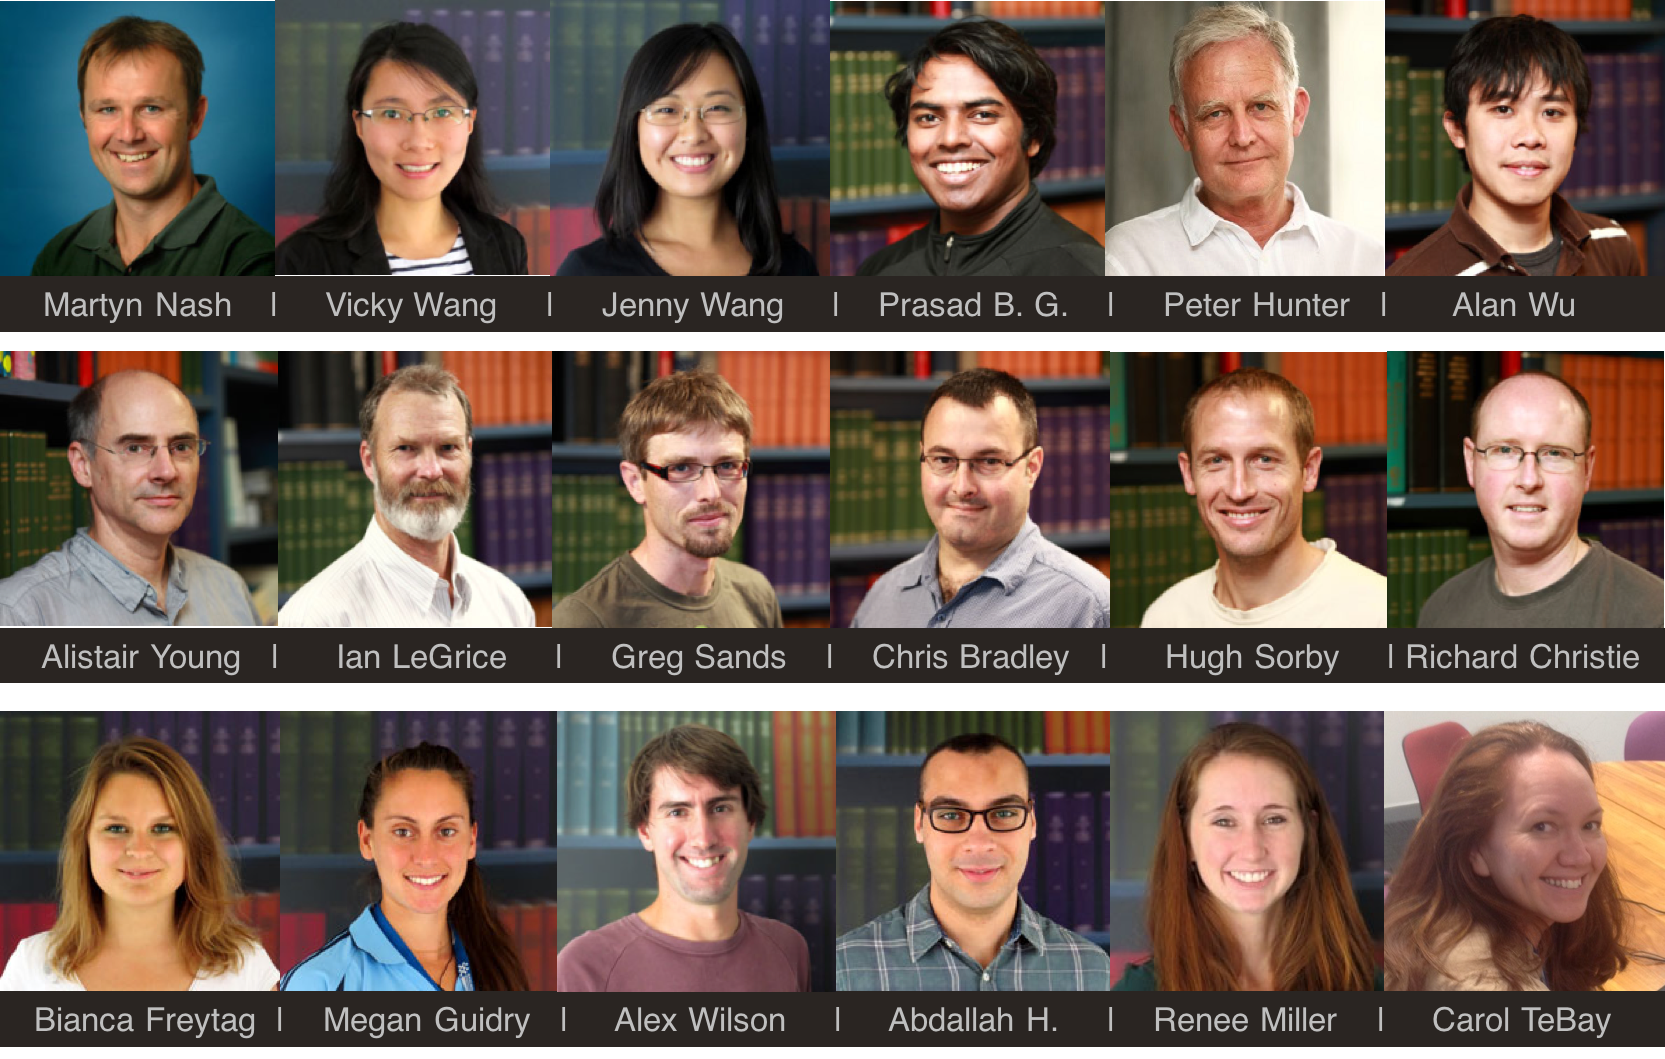
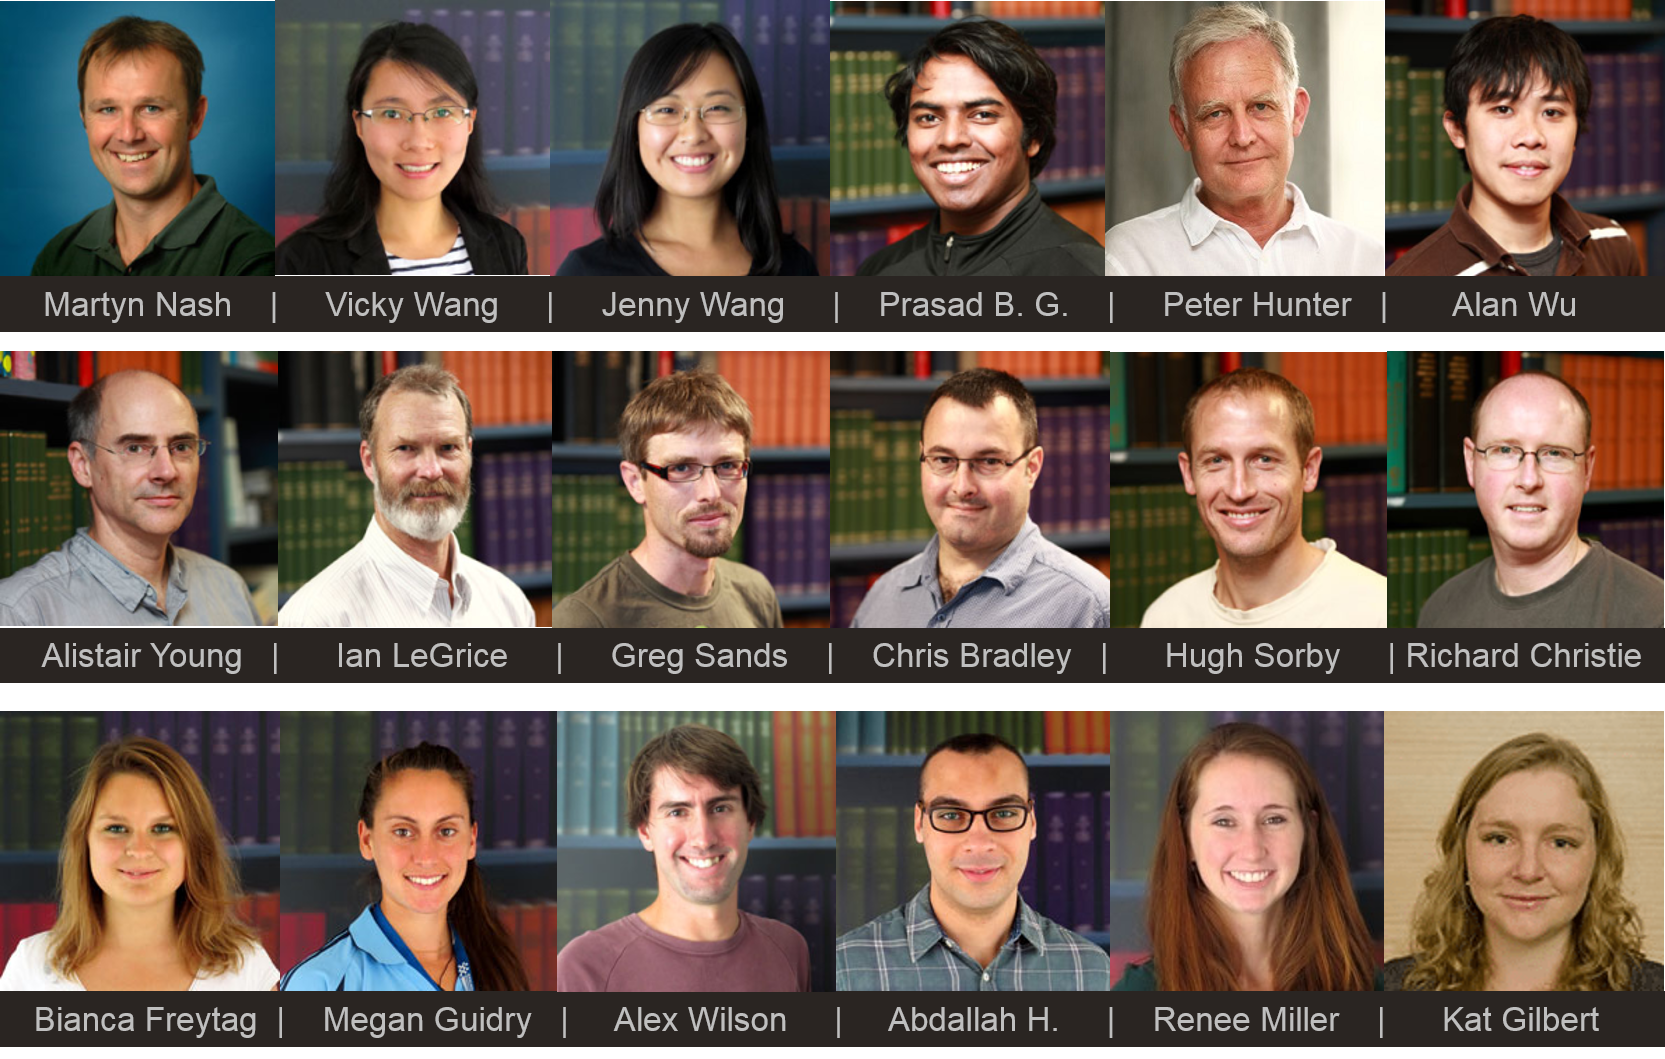
Update after feedback from Joe
* Make video exit full screen and auto close after it has played to the end.
* Swapped order and default button in about us page to show video right away
* Changed heading for about us page
* Changed headshots to include Kat.
* Wording changes for minor attack
* Add healthy heart movie to default page
* Add blocked arteries movie to all attack pages.

diff --git a/index.html b/index.html
@@ -43,8 +43,30 @@
 	</head>
 	<body onload="setTimer()" style="height:100%;font-family='Helvetica'" oncontextmenu="return false" unselectable="on" onselectstart="return false;">
 	<div id="main_page" class="heartpage">
+		<div id="heart_video" class="video_player closed">
+			<video id="heart" controls controlsList="nodownload" style = "position:absolute;height:90%;width:100%" class="closed" onended="ExitFullScreen('heart')">
+				<source src="videos/1_healthy_heart.mp4">
+				Your browser does not support the video tag.
+			</video>
+			<div class="close_video" onclick="closeVideo('heart')" style="display:inline-block">
+				<img src="images/heart_v7/Annie_Jones.png" style="height:90%;top:5%;left:5%;position:absolute" alt="annie_jones">
+				<img src="images/heart_v7/close_video_icon.png" style="height:90%;top:5%;width:55%;left:22.5%;position:absolute"alt="click_to_close">
+				<img src="images/heart_v7/Liz_Broadbent.png" style="height:90%;top:5%;right:5%;position:absolute" alt="liz_broadbent">
+			</div>
+		</div>
+		<div id="blockage_video" class="video_player closed">
+			<video id="blockage" controls controlsList="nodownload" style = "position:absolute;height:90%;width:100%" class="closed" onended="ExitFullScreen('blockage')">
+				<source src="videos/2_blocked_arteries.mp4">
+				Your browser does not support the video tag.
+			</video>
+			<div class="close_video" onclick="closeVideo('blockage')" style="display:inline-block">
+				<img src="images/heart_v7/Annie_Jones.png" style="height:90%;top:5%;left:5%;position:absolute" alt="annie_jones">
+				<img src="images/heart_v7/close_video_icon.png" style="height:90%;top:5%;width:55%;left:22.5%;position:absolute"alt="click_to_close">
+				<img src="images/heart_v7/Liz_Broadbent.png" style="height:90%;top:5%;right:5%;position:absolute" alt="liz_broadbent">
+			</div>
+		</div>
 		<div id="exercise_video" class="video_player closed">
-			<video id="exercise" controls controlsList="nodownload" style = "position:absolute;height:90%;width:100%" class="closed">
+			<video id="exercise" controls controlsList="nodownload" style = "position:absolute;height:90%;width:100%" class="closed" onended="ExitFullScreen('exercise')">
 				<source src="videos/5_exercise_v2.mp4">
 				Your browser does not support the video tag.
 			</video>
@@ -55,7 +77,7 @@
 			</div>
 		</div>
 		<div id="diet_video" class="video_player closed">
-			<video id="diet" controls controlsList="nodownload" style = "position:absolute;height:90%;width:100%" class="closed">
+			<video id="diet" controls controlsList="nodownload" style = "position:absolute;height:90%;width:100%" class="closed" onended="ExitFullScreen('diet')">
 				<source src="videos/6_diet_v2.mp4">
 				Your browser does not support the video tag.
 			</video>
@@ -66,7 +88,7 @@
 			</div>
 		</div>
 		<div id="smoking_video" class="video_player closed">
-			<video id="smoking" controls controlsList="nodownload" style = "position:absolute;height:90%;width:100%" class="closed">
+			<video id="smoking" controls controlsList="nodownload" style = "position:absolute;height:90%;width:100%" class="closed" onended="ExitFullScreen('smoking')">
 				<source src="videos/7_smoking_v2.mp4">
 				Your browser does not support the video tag.
 			</video>
@@ -77,7 +99,7 @@
 			</div>
 		</div>
 		<div id="aspirin_video" class="video_player closed">
-			<video id="aspirin" controls controlsList="nodownload" style = "position:absolute;height:90%;width:100%" class="closed">
+			<video id="aspirin" controls controlsList="nodownload" style = "position:absolute;height:90%;width:100%" class="closed" onended="ExitFullScreen('aspirin')">
 				<source src="videos/4_aspirin.mp4">
 				Your browser does not support the video tag.
 			</video>
@@ -88,7 +110,7 @@
 			</div>
 		</div>
 		<div id="statin_video" class="video_player closed">
-			<video id="statin" controls controlsList="nodownload" style = "position:absolute;height:90%;width:100%" class="closed">
+			<video id="statin" controls controlsList="nodownload" style = "position:absolute;height:90%;width:100%" class="closed" onended="ExitFullScreen('statin')">
 				<source src="videos/3_Statins.mp4">
 				Your browser does not support the video tag.
 			</video>
@@ -243,8 +265,17 @@
 					<p class="big">This is an interactive model of the heart's two main pumping chambers: the ventricles. Spin, zoom, drag, and open the heart using the gestures shown at the bottom. Vary the heart rate using the slider on the right. </p>
 					<img src="images/heart_v7/schematic.png" alt="schematic" style="position:relative;left:5%;width:90%;">
 					<hr class="style">
-					<p class="big">The heart pumps blood around the body to provide all the organ systems with oxygen and nutrients. </p>
+					<p class="big" style="width:80%;display:inline-block">The heart pumps blood around the body to provide all the organ systems with oxygen and nutrients. </p>
+					<div id="heart_icon" class = "medicationLifestyle open">
+						<img src="images/heart_v7/heart_video.png" alt="home"  onclick="showVideo('heart')"
+						style="top:10%;height:93%;left:10%;position:relative">
+					</div>
+					<div id="heart_selected_icon" class = "medicationLifestyle" style="display:none;">
+						<img src="images/heart_v7/heart_video_selected.png" alt="home"  onclick="closeVideo('heart')"
+						style="top:10%;height:93%;left:10%;position:relative">
+					</div>
 					<p class="big">The ECG trace (top right) represents the electrical waves in the heart that stimulate contraction and generate pressure (middle right) to pump blood.  </p>
+
 					<hr class="style">
 					<p class="big">Click through the tabs below to learn about various heart diseases.</p>
 				</div>
@@ -258,8 +289,15 @@
 				</div>
 				<div class="leftAnswer open">
 					<p class="big">The heart pumps blood to itself through blood vessels called the coronary arteries (not shown in the 3D model). A heart attack occurs when blood flow is obstructed by a narrowing of these arteries.</p>
-					<img src="images/heart_v7/coronary_heart.png" alt="moderate" style="position:relative;left:24%;width:52%">
-
+					<img src="images/heart_v7/coronary_heart.png" alt="moderate" style="position:relative;left:20%;width:60%;display:inline-block">
+					<div id="blockage_icon" class = "medicationLifestyle" style="display:inline-block">
+						<img src="images/heart_v7/blockage_icon.png" alt="home"  onclick="showVideo('blockage')"
+						style="top:10%;height:100%;left:95%;position:relative">
+					</div>
+					<div id="blockage_selected_icon" class = "medicationLifestyle" style="display:none;">
+						<img src="images/heart_v7/blockage_selected_icon.png" alt="home"  onclick="closeVideo('blockage')"
+						style="top:10%;height:100%;left:95%;position:relative">
+					</div>
 					<p class="big">Good lifestyle choices help to keep the coronary arteries healthy and prevent heart attacks. Learn more about how lifestyle factors can affect the heart in the following movie clips.</p>
 					<div id="exercise_icon" class = "medicationLifestyle open">
 						<img src="images/heart_v7/exercise.png" alt="home"  onclick="showVideo('exercise')" style="top:0%;height:93%;position:relative">
@@ -385,9 +423,17 @@
 				<div class="leftAnswer open">
 					<p class="big">In a heart attack, fatty deposits build up inside the coronary arteries. This obstructs blood flow to the heart muscle and causes tissue damage. </p>
 					<img src="images/heart_v7/coronary_block_moderate_no_vid.png" alt="moderate" style="position:relative;left:20%;width:60%">
+					<div id="blockage_yp_icon" class = "medicationLifestyle" style="display:none">
+						<img src="images/heart_v7/blockage_icon.png" alt="home"  onclick="showVideo('blockage_yp')"
+						style="top:10%;height:100%;left:95%;position:relative">
+					</div>
+					<div id="blockage_yp_selected_icon" class = "medicationLifestyle" style="display:inline_block">
+						<img src="images/heart_v7/blockage_selected_icon.png" alt="home"  onclick="closeVideo('blockage_yp')"
+						style="top:10%;height:100%;left:95%;position:relative">
+					</div>
 					<p class="big">Less pressure is generated by hearts with damaged tissue (yellow trace) compared to healthy hearts (green trace). </p>
 					<hr class="style">
-					<p class="big">Medications such as statins and aspirin help to reduce coronary blockages. They must be combined with healthy lifestyle choices to help prevent further heart attacks.</p>
+					<p class="big">Medications such as statins and aspirin help to clear and prevent coronary blockages. They must be combined with healthy lifestyle choices to help prevent further heart attacks.</p>
 					<div id="statin_icon" class = "medicationLifestyle open">
 						<img src="images/heart_v7/statin.png" alt="home"  onclick="showVideo('statin')"
 						style="top:0%;height:93%;position:relative">
@@ -524,6 +570,14 @@
 				<div class="leftAnswer open">
 					<p class="big">If a minor heart attack is left untreated, or if medication is stopped too early, then the coronary artery blockage can become more severe.</p>
 					<img src="images/heart_v7/coronary_block_severe.png" alt="severe" style="position:relative;left:20%;width:60%;">
+					<div id="blockage_rp_icon" class = "medicationLifestyle" style="display:inline-block">
+						<img src="images/heart_v7/blockage_icon.png" alt="home"  onclick="showVideo('blockage_rp')"
+						style="top:10%;height:100%;left:95%;position:relative">
+					</div>
+					<div id="blockage_rp_selected_icon" class = "medicationLifestyle" style="display:none;">
+						<img src="images/heart_v7/blockage_selected_icon.png" alt="home"  onclick="closeVideo('blockage_rp')"
+						style="top:10%;height:100%;left:95%;position:relative">
+					</div>
 					<p class="big">A severe heart attack can cause permanent damage to a large portion of heart tissue. This prevents the heart from generating enough pressure to pump blood around the body (red trace). </p>
 					<p class="big">Muscle damage due to a heart attack can lead to problems with electrical activity of the heart. Untreated heart attacks can eventually lead to heart failure.</p>
 				</div>
@@ -591,20 +645,20 @@
 				<div class="leftDescription">
 					<span>&nbsp;</span>
 				</div>
-				<div id="our_team_icon" style="top:25%;" class="aboutUsButtons closed" onclick="ourTeamClicked()">
+				<div id="our_team_icon" style="top:40%;" class="aboutUsButtons open" onclick="ourTeamClicked()">
 					Our Team
 				</div>
 				<div id="our_team_selected_icon"
-					style="top:25%;background-color:rgba(150,30,150,0.4);color:rgb(255,255,255)"
-					class="aboutUsButtons open">
+					style="top:40%;background-color:rgba(150,30,150,0.4);color:rgb(255,255,255)"
+					class="aboutUsButtons closed">
 					Our Team
 				</div>
-				<div id="our_research_icon" style="top:40%;" class="aboutUsButtons open" onclick="ourResearchClicked()">
+				<div id="our_research_icon" style="top:25%;" class="aboutUsButtons closed" onclick="ourResearchClicked()">
 					Our Research
 				</div>
 				<div id="our_research_selected_icon"
-					style="top:40%;background-color:rgba(150,30,150,0.4);color:rgb(255,255,255)"
-					class="aboutUsButtons closed">
+					style="top:25%;background-color:rgba(150,30,150,0.4);color:rgb(255,255,255)"
+					class="aboutUsButtons open">
 					Our Research
 				</div>
 				<!-- <div id="feedback_icon" style="position:absolute;top:55%;width:80%;left:10%" >
@@ -624,26 +678,16 @@
 					<span style="color:white;font-size:1.4em;"><b>Our Research</b></span><br>
 					Improving diagnosis and management of heart diseases <br>using personalised biomechanics and image-driven computer modelling
 				</div>
-				<!-- <div id="video_placeholder" class="open" style="top:20%;left:25%;width:50%;position:absolute;">
-					<img src="images/heart_v7/video_placeholder.png" style="width:100%" alt="video_placeholder">
-				</div> -->
-				<!-- <video id="exercise" controls controlsList="nodownload" style = "position:absolute;height:90%;width:100%" class="closed">
-					<source src="videos/5_exercise_v2.mp4">
-					Your browser does not support the video tag.
-				</video> -->
 				<div id="about_us_video" class="open">
 					<video id="about_us" poster="images/heart_v7/video_placeholder.png" controls controlslist="nodownload" style="top:20%;left:10%;width:80%;position:absolute;">
 						<source src="videos/heartresearchvideo.mp4">
 							Your browser does not support the video tag.
 					</video>
 				</div>
-				<!-- <div id="abi_banner" class="open" style="bottom:2%;left:0%;height:30%;position:absolute;">
-					<img src="images/heart_v7/abi_banner.png" style="height:100%"  alt="abi_banner">
-				</div> -->
 			</div>
 			<div id="ourTeam" class="closed">
 				<div id="ourMission" class="mission open" style="position:absolute;top:0%;width:100%;left:0%;color:rgb(175,175,175)">
-					<span style="color:white;font-size:1.4em;"><b>Our Heart Mechanics Research Team</b></span><br>
+					<span style="color:white;font-size:1.4em;"><b>Our Heart Mechanics Research</b></span><br>
 					An inter-disciplinary collaboration between experts in  <br>bioengineering, physiology, software development, and medical imaging
 				</div>
 				<div id="headshots" style="position:absolute;top:17%;left:10%;height:60%">
@@ -721,7 +765,7 @@
 			"failure_line","failure_box", "attack_moderate_line", "attack_moderate_box",
 			"failure_compensated_line","failure_compensated_box","attack_severe_line",
 			"attack_severe_box","failure_decompensated_line","failure_decompensated_box"];
-		var videoNameIds = ["exercise","diet","smoking","aspirin","statin", "about_us"];
+		var videoNameIds = ["exercise","diet","smoking","aspirin","statin","heart","blockage"];
 		var modelToSceneArray = [];
 		var previousCamera = undefined;
 
@@ -1095,12 +1139,13 @@
 		}
 
 		function aboutUsClicked(){
-			leftPanelPurpleTrigger("ourTeam");
-			ourTeamClicked();
+			closeAllVideos();
+			leftPanelPurpleTrigger("ourResearch");
+			ourResearchClicked();
 			document.getElementById("gestures_panel").className = "closed";
 			document.getElementById("home_icon").className = "bottomButton open";
 			document.getElementById("home_selected_icon").className = "closed";
-			closeAllVideos();
+
 		}
 
 		function ourResearchClicked(){
@@ -1268,16 +1313,19 @@
 			}
 		}
 
-
 		function showVideo(videoName) {
-			closeAllVideos()
+			closeAllVideos();
 			document.getElementById(videoName+"_icon").style = "display:none;"
 			document.getElementById(videoName+"_selected_icon").style = "display:inline-block;"
-			document.getElementById(videoName+"_video").className = "video_player slide_open";
-			console.log(document.getElementById(videoName))
-			document.getElementById(videoName).load();
-			document.getElementById(videoName).play();
-
+			if ((videoName == "blockage_yp")||(videoName=="blockage_rp")){
+				document.getElementById("blockage_video").className = "video_player slide_open";
+				document.getElementById("blockage").load();
+				document.getElementById("blockage").play();
+			}else{
+				document.getElementById(videoName+"_video").className = "video_player slide_open";
+				document.getElementById(videoName).load();
+				document.getElementById(videoName).play();
+			}
 		}
 
 		function showAboutUsVideo(){
@@ -1288,9 +1336,14 @@
 		}
 
 		function closeVideo(videoName){
-			document.getElementById(videoName+"_video").className = "video_player slide_closed";
-			document.getElementById(videoName).pause();
-			resetVideoIcons()
+			if ((videoName == "blockage_yp")||(videoName=="blockage_rp")){
+				document.getElementById("blockage_video").className = "video_player slide_closed";
+				document.getElementById("blockage").pause();
+			}else{
+				document.getElementById(videoName+"_video").className = "video_player slide_closed";
+				document.getElementById(videoName).pause();
+			}
+			resetVideoIcons();
 		}
 
 		function closeAllVideos(){
@@ -1303,13 +1356,15 @@
 		}
 
 		function resetVideoIcons(){
-			var icons = ["exercise_icon","diet_icon","smoking_icon","aspirin_icon","statin_icon"]
-			var selected_icons = ["exercise_selected_icon","diet_selected_icon","smoking_selected_icon","aspirin_selected_icon","statin_selected_icon"]
+			var icons = ["heart_icon","blockage_icon","blockage_yp_icon","blockage_rp_icon","exercise_icon","diet_icon","smoking_icon","aspirin_icon","statin_icon"]
+			var selected_icons = ["heart_selected_icon","blockage_selected_icon","blockage_yp_selected_icon","blockage_rp_selected_icon","exercise_selected_icon","diet_selected_icon","smoking_selected_icon","aspirin_selected_icon","statin_selected_icon"]
 			for (var i=0;i<icons.length; i++){
 				var id = icons[i];
 				var sel = selected_icons[i];
 				document.getElementById(id).style = "display:inline-block;"
 				document.getElementById(sel).style = "display:none;"
+				console.log(sel)
+				console.log(document.getElementById(sel).style)
 			}
 		}
 
@@ -1495,7 +1550,7 @@
 			} else {
 				zincRenderer.setCurrentScene(scene);
 				shareCameraSettings(previousCamera);
-				showHalf();
+				//showHalf();
 			}
 		}
 
